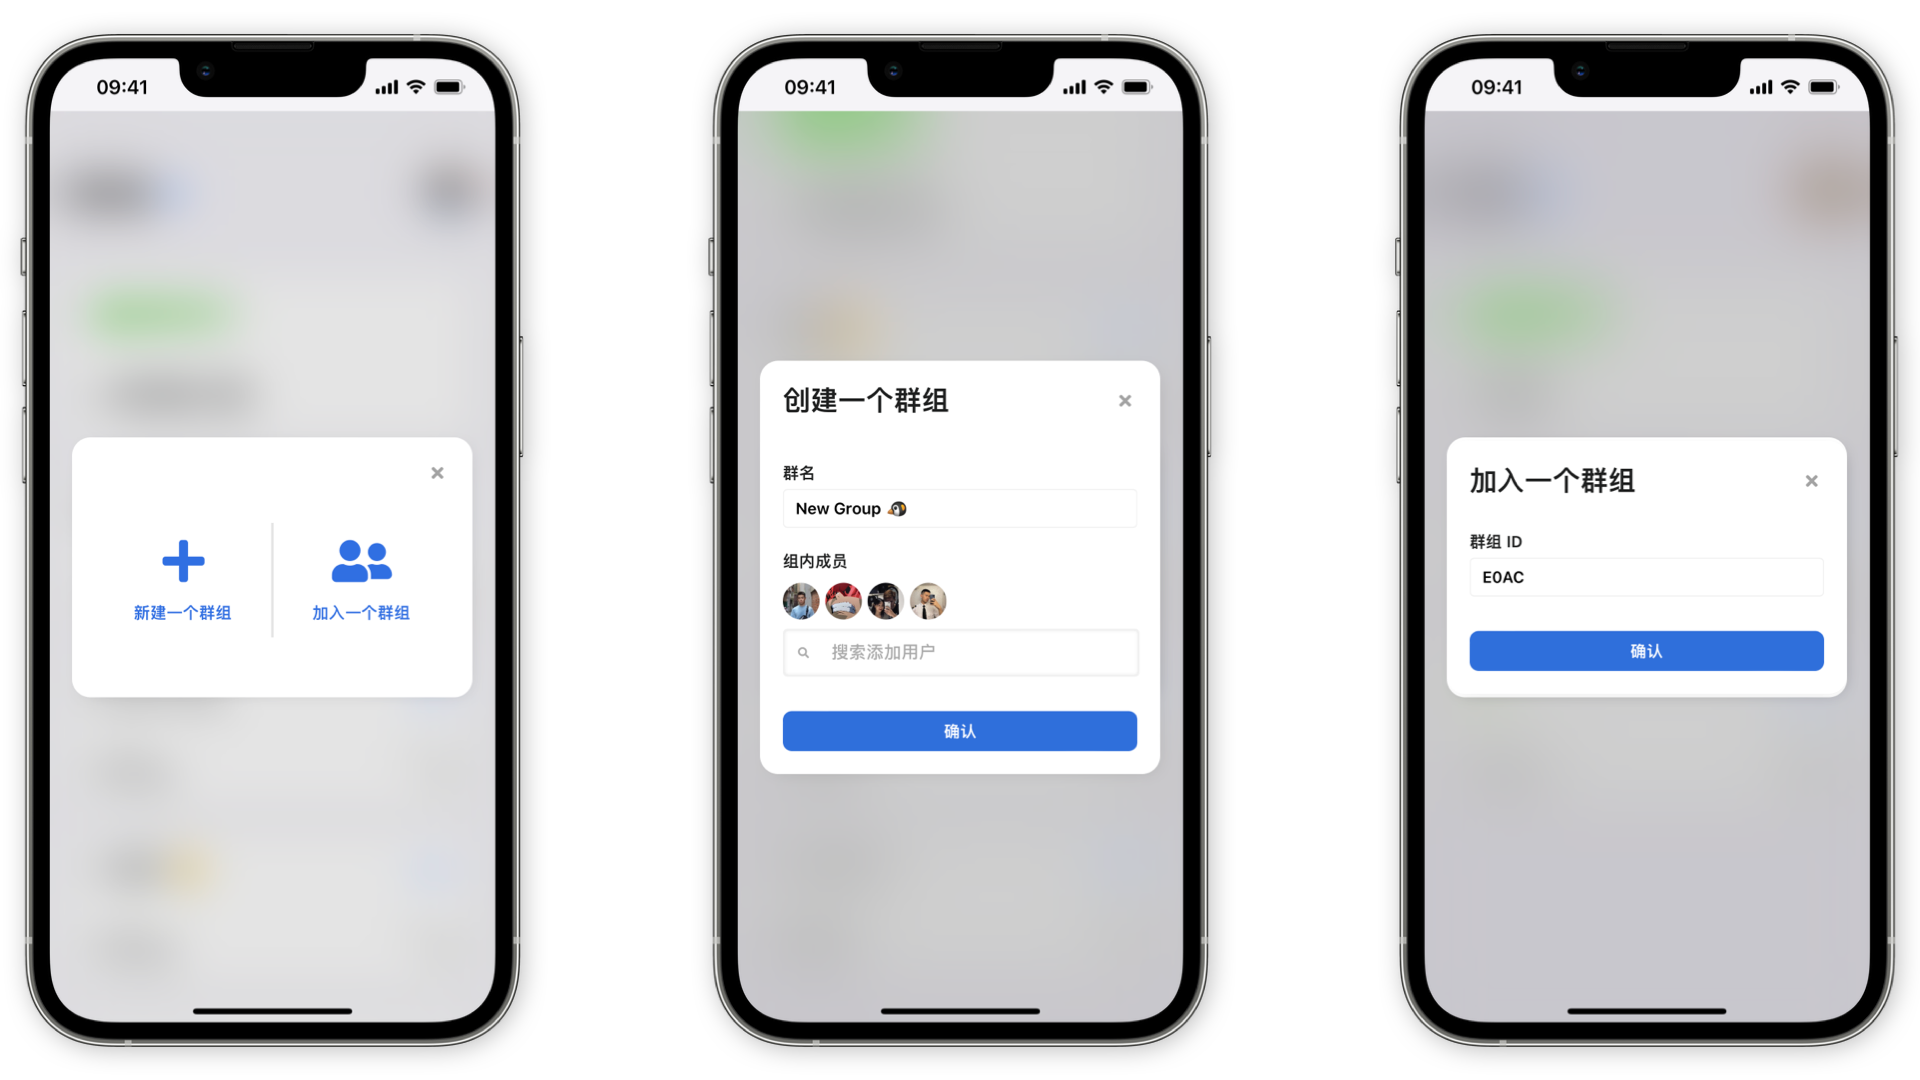
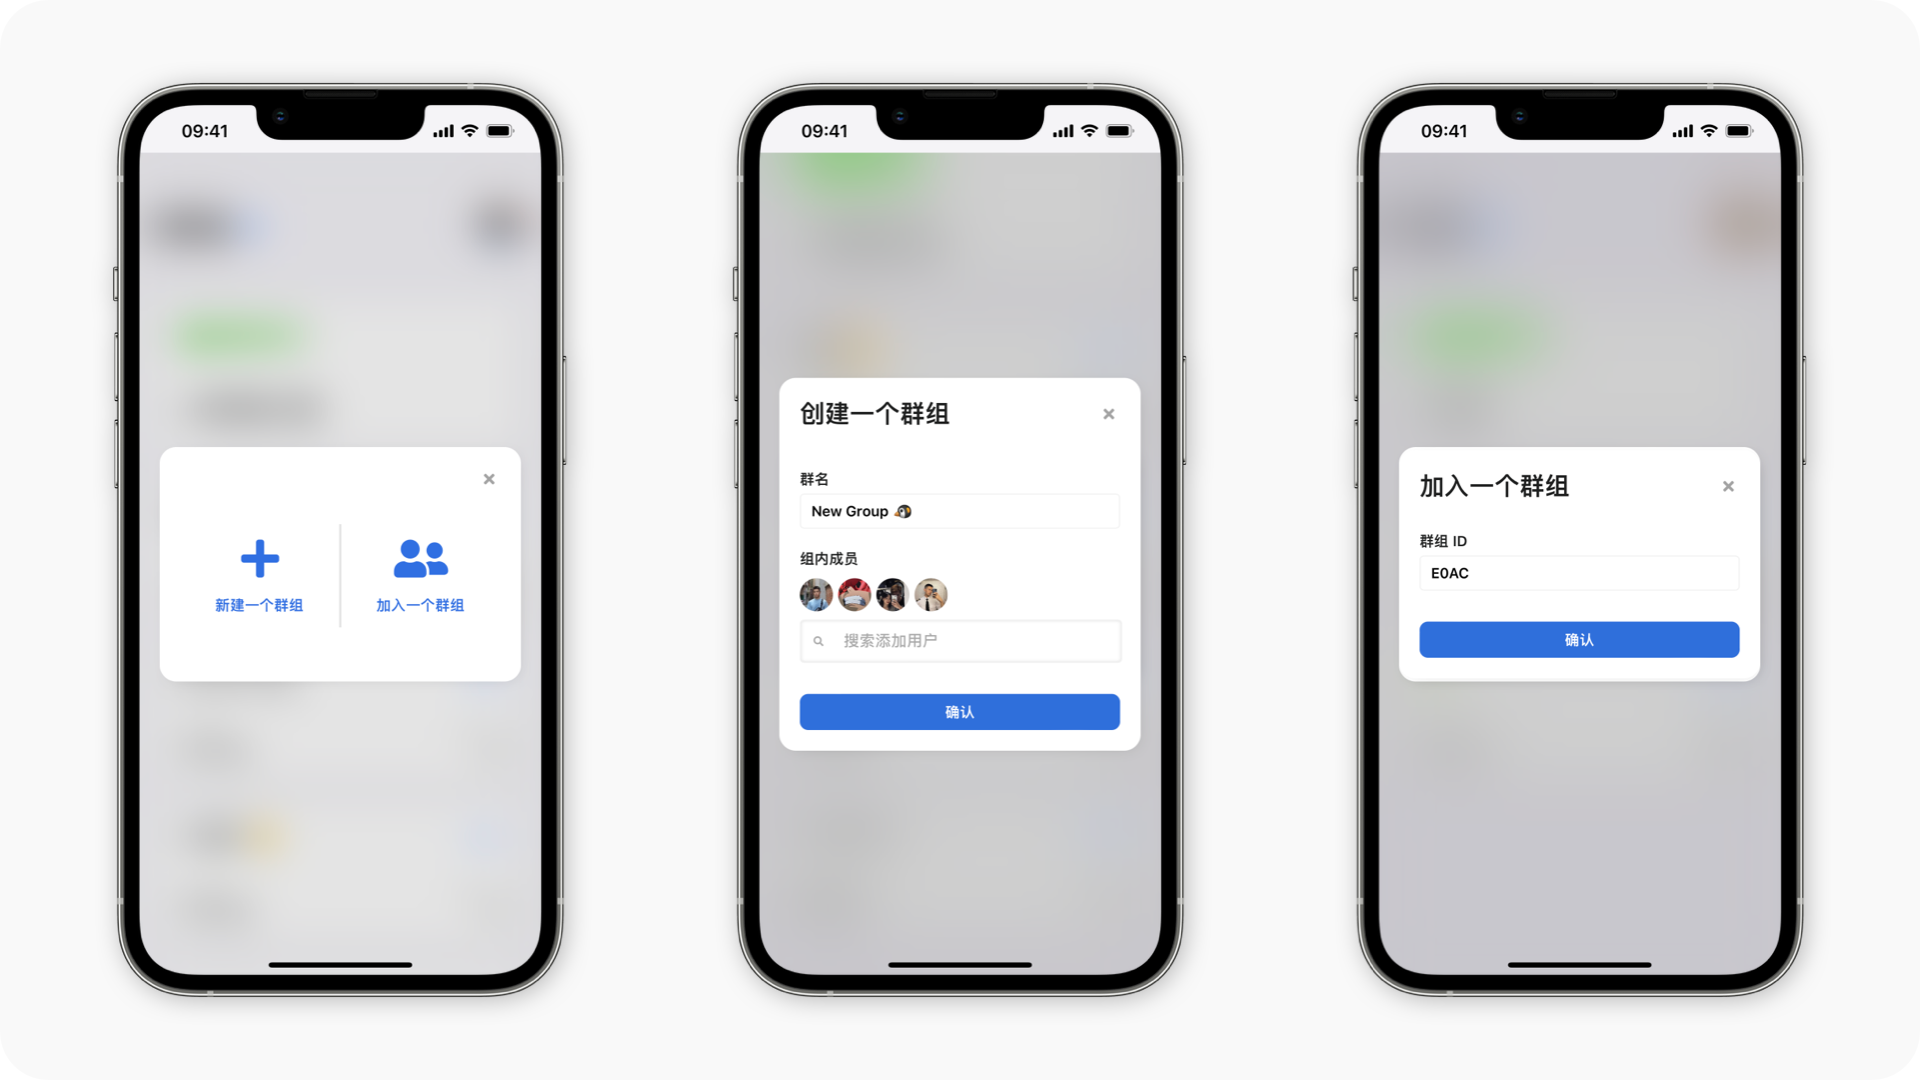
update readme

diff --git a/README.md b/README.md
@@ -20,7 +20,7 @@
 ## 👀 Online Demo
 
 - 🔗 https://hong97.ltd/walkingcalc
-
+  
   试用账号：130000000 
 
 ## ⛏ 技术栈
@@ -110,3 +110,15 @@ docker run -itd --restart=always -v <前端build目录>:/usr/share/nginx/html -v
 ```
 
 使用 `https://<domain>:3610` 即可访问服务
+
+## 📐 原型图
+
+![prototype](images/prototype.png)
+
+## 📱 Screenshots
+
+![screen2](images/2.png)
+
+![screen3](images/3.png)
+
+![screen4](images/4.png)
